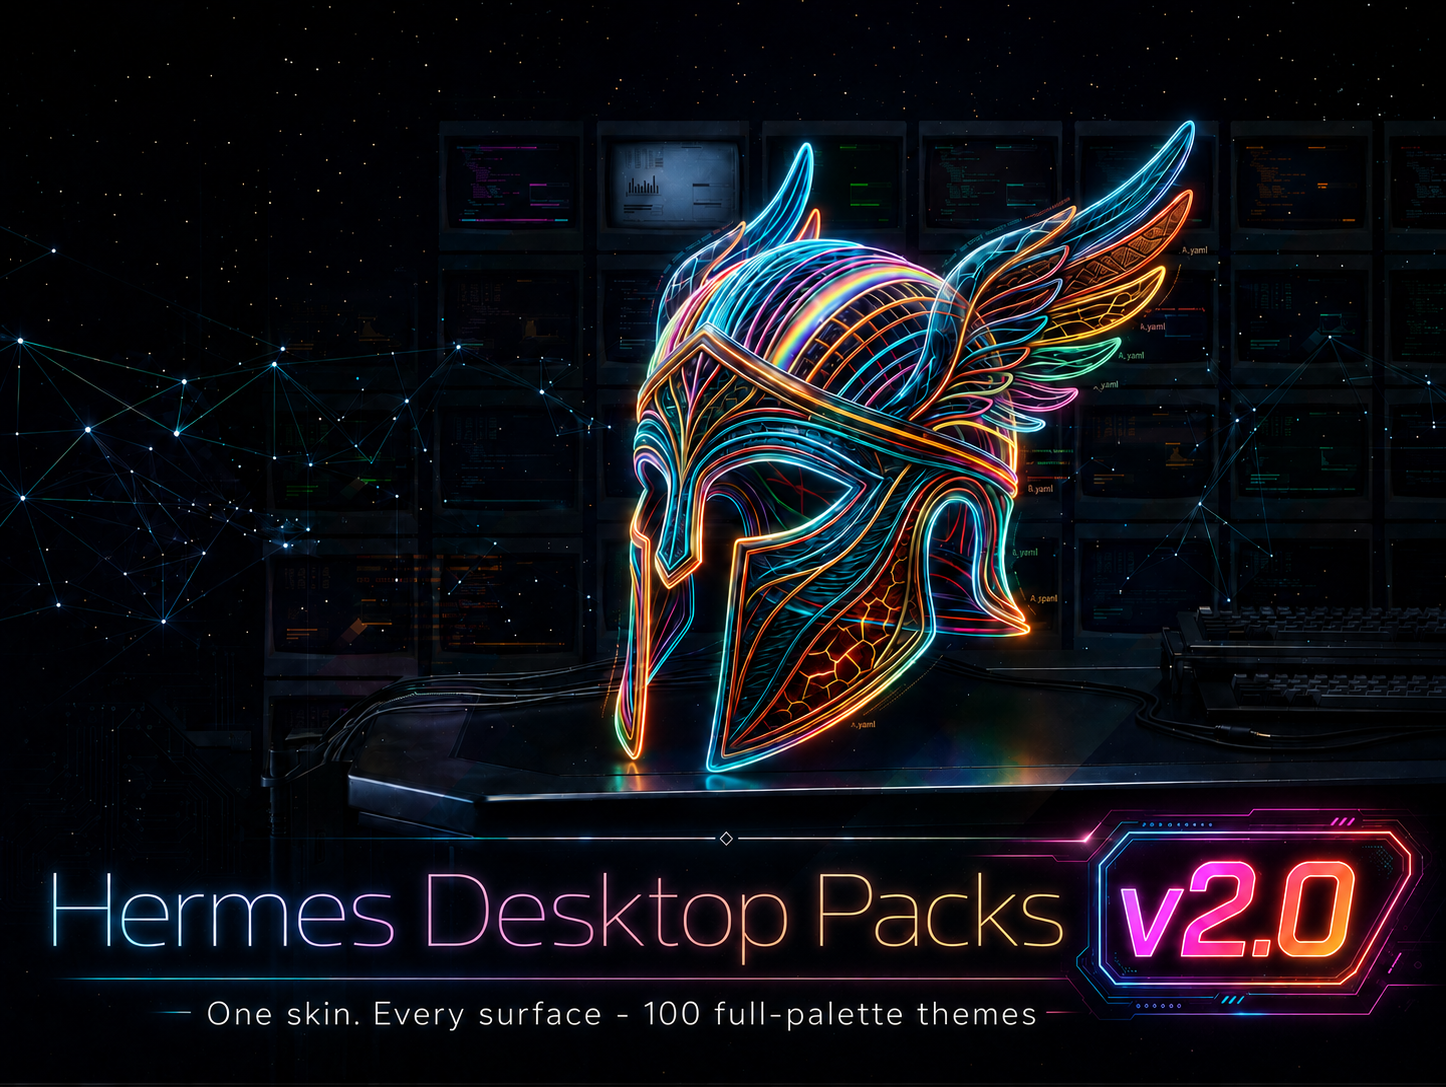
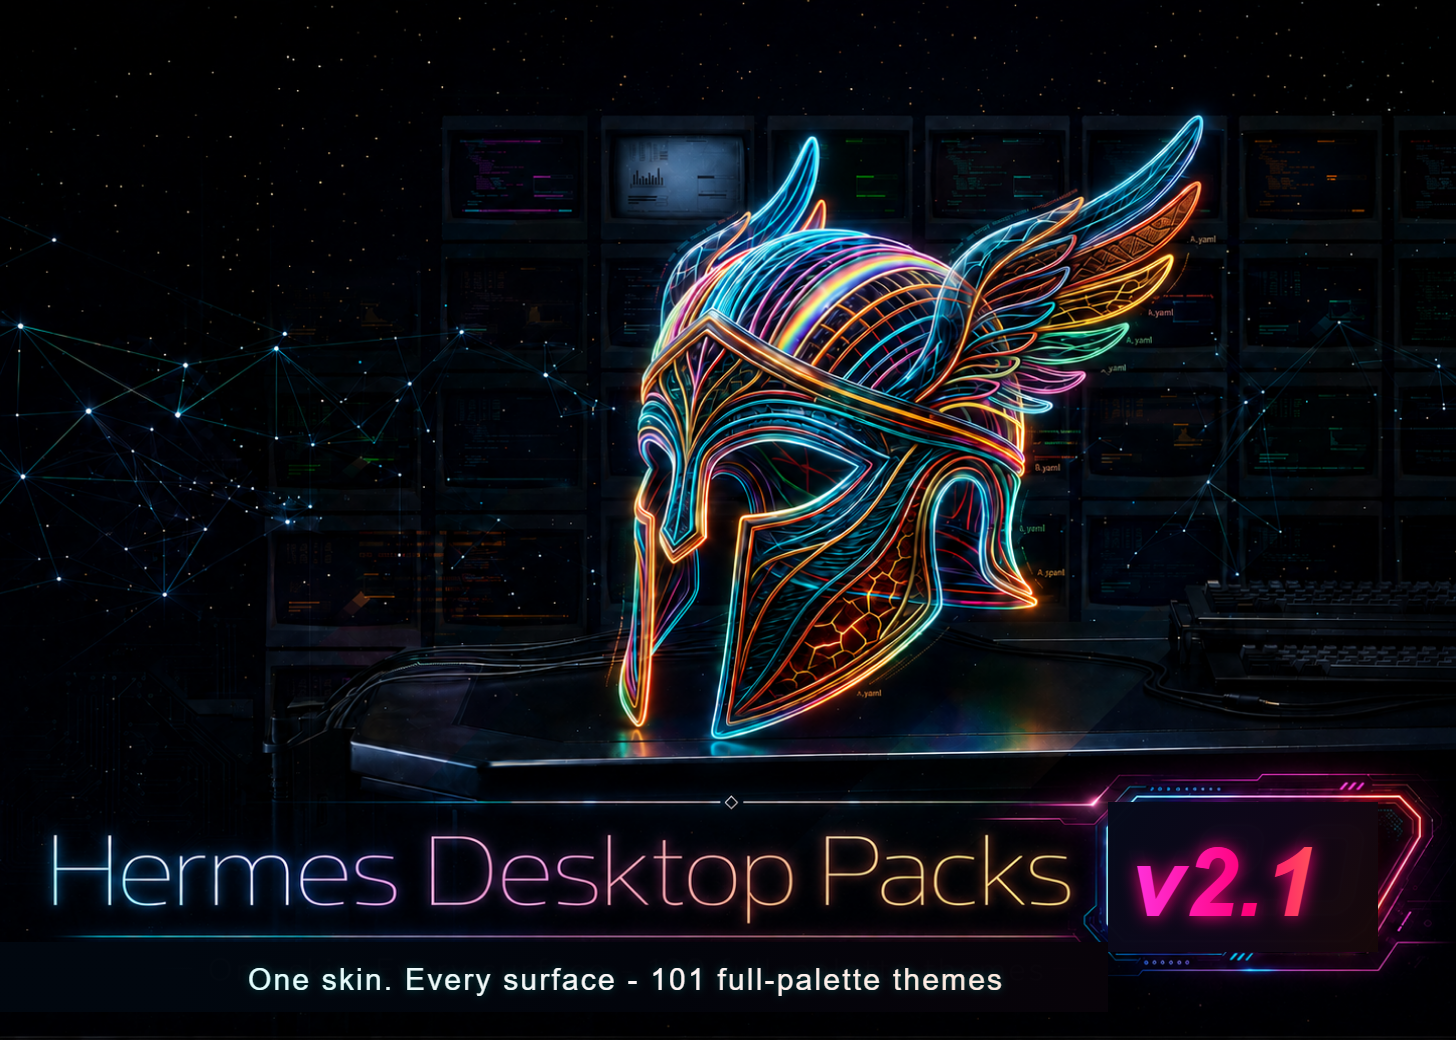
feat: add Dracula desktop pack and security checks

diff --git a/desktop-plugin/hermes-desktop-packs/plugin.js b/desktop-plugin/hermes-desktop-packs/plugin.js
@@ -629,6 +629,26 @@ const fullThemes = [
     semantic: { ok: '#40e880', warn: '#ffb800', error: '#ff4088', tool: '#00e8e8' }
   },
   {
+    name: 'pack-dracula', label: 'Dracula Pack', description: 'Full desktop pack from the dracula Hermes skin.',
+    colors: {
+      background: '#282a36', foreground: '#f8f8f2', card: '#21222c', cardForeground: '#f8f8f2',
+      muted: '#3d3f49', mutedForeground: '#aaabae', popover: '#44475a', popoverForeground: '#f8f8f2',
+      primary: '#8be9fd', primaryForeground: '#282a36', secondary: '#44475a', secondaryForeground: '#f8f8f2',
+      accent: '#ffb86c', accentForeground: '#282a36', border: '#44475a', input: '#21222c', ring: '#ffb86c',
+      midground: '#8be9fd', midgroundForeground: '#282a36', composerRing: '#ffb86c',
+      destructive: '#ff5555', destructiveForeground: '#282a36',
+      sidebarBackground: '#21222c', sidebarBorder: '#44475a', userBubble: '#44475a', userBubbleBorder: '#ffb86c'
+    },
+    darkColors: null,
+    terminal: {
+      foreground: '#f8f8f2', cursor: '#ffb86c', selectionBackground: '#44475a', black: '#282a36',
+      red: '#ff5555', green: '#50fa7b', yellow: '#f1fa8c', blue: '#ffb86c', magenta: '#8be9fd', cyan: '#f8f8f2', white: '#f8f8f2',
+      brightBlack: '#34363f', brightRed: '#ff5555', brightGreen: '#50fa7b', brightYellow: '#f1fa8c',
+      brightBlue: '#ffb86c', brightMagenta: '#bd93f9', brightCyan: '#f8f8f2', brightWhite: '#f8f8f2'
+    },
+    semantic: { ok: '#50fa7b', warn: '#f1fa8c', error: '#ff5555', tool: '#ffb86c' }
+  },
+  {
     name: 'pack-dragon-blood', label: 'Dragon Blood Pack', description: 'Full desktop pack from the dragon-blood Hermes skin.',
     colors: {
       background: '#141010', foreground: '#e0d0c0', card: '#141010', cardForeground: '#e0d0c0',

diff --git a/tests/test_plugin.py b/tests/test_plugin.py
@@ -35,11 +35,12 @@ def test_plugin_registers_full_desktop_packs_from_every_bchop_skin():
     plugin = PLUGIN.read_text(encoding="utf-8").lower()
     skin_names = sorted(path.stem for path in SKINS.glob("*.yaml"))
 
-    assert len(skin_names) == 100
+    assert skin_names, "No source skins found"
+    expected_count = len(skin_names)
     assert "const fullthemes" in plugin
-    assert plugin.count("darkcolors: null") == 100
-    assert plugin.count("terminal: {") == 100
-    assert plugin.count("semantic: {") == 100
+    assert plugin.count("darkcolors: null") == expected_count
+    assert plugin.count("terminal: {") == expected_count
+    assert plugin.count("semantic: {") == expected_count
     assert "theme.darkcolors = theme.colors" in plugin
     assert "theme.colors.midground =" not in plugin
 

diff --git a/README.md b/README.md
@@ -4,7 +4,7 @@
 
 [![License: MIT](https://img.shields.io/badge/License-MIT-blue.svg)](LICENSE)
 
-100 full-palette themes for the **Hermes Desktop app**, built from the [bchop-studio hermes-skins-pack](https://github.com/bchop-studio/hermes-skins-pack).
+101 full-palette themes for the **Hermes Desktop app**, built from the [bchop-studio hermes-skins-pack](https://github.com/bchop-studio/hermes-skins-pack).
 
 A regular skin changes the CLI and TUI, and nudges the desktop with a basic color conversion. A **pack** maps the whole skin palette into Hermes Desktop, surface by surface: background, cards, sidebar, borders, text, accents, success, warning, error, and the integrated terminal. One click, the whole app becomes the skin.
 
@@ -27,14 +27,14 @@ These packs change Hermes Desktop only. They never touch your operating system, 
 
 ## Source
 
-Palettes are generated from the 100 skins in [bchop-studio/hermes-skins-pack](https://github.com/bchop-studio/hermes-skins-pack). Every pack keeps the skin's own background, text, accent, border, tool, success, warning, and error colors, plus its terminal palette.
+Palettes are generated from the 101 skins in [bchop-studio/hermes-skins-pack](https://github.com/bchop-studio/hermes-skins-pack). Every pack keeps the skin's own background, text, accent, border, tool, success, warning, and error colors, plus its terminal palette.
 
 Browse the full list with contrast ratios in [themes/](themes/).
 
 ## Repository Contents
 
 - `desktop-plugin/hermes-desktop-packs/plugin.js`, the pack engine and Packs page
-- `themes/README.md`, all 100 packs with mode and WCAG contrast
+- `themes/README.md`, all 101 packs with mode and WCAG contrast
 - `scripts/generate_packs.py`, the repeatable source-to-Desktop generator
 - `tests/test_plugin.py`, the contract every pack must pass
 - `VERSION`, current pack version

diff --git a/themes/README.md b/themes/README.md
@@ -1,6 +1,6 @@
 # Themes
 
-100 packs generated from the source skins, 21 light and 79 dark. Contrast is foreground on background, measured WCAG.
+101 packs generated from the source skins, 21 light and 80 dark. Contrast is foreground on background, measured WCAG.
 
 | Pack | Source skin | Mode | Contrast |
 |---|---|---|---|
@@ -35,6 +35,7 @@
 | Deep Ocean | `deep-ocean` | ☾ dark | 13.5:1 |
 | Deep Void | `deep-void` | ☾ dark | 8.6:1 |
 | Desert Neon | `desert-neon` | ☾ dark | 13.6:1 |
+| Dracula | `dracula` | ☾ dark | 13.4:1 |
 | Dragon Blood | `dragon-blood` | ☾ dark | 12.6:1 |
 | Dusty Rose | `dusty-rose` | ☾ dark | 11.6:1 |
 | Eclipse | `eclipse` | ☾ dark | 11.6:1 |
